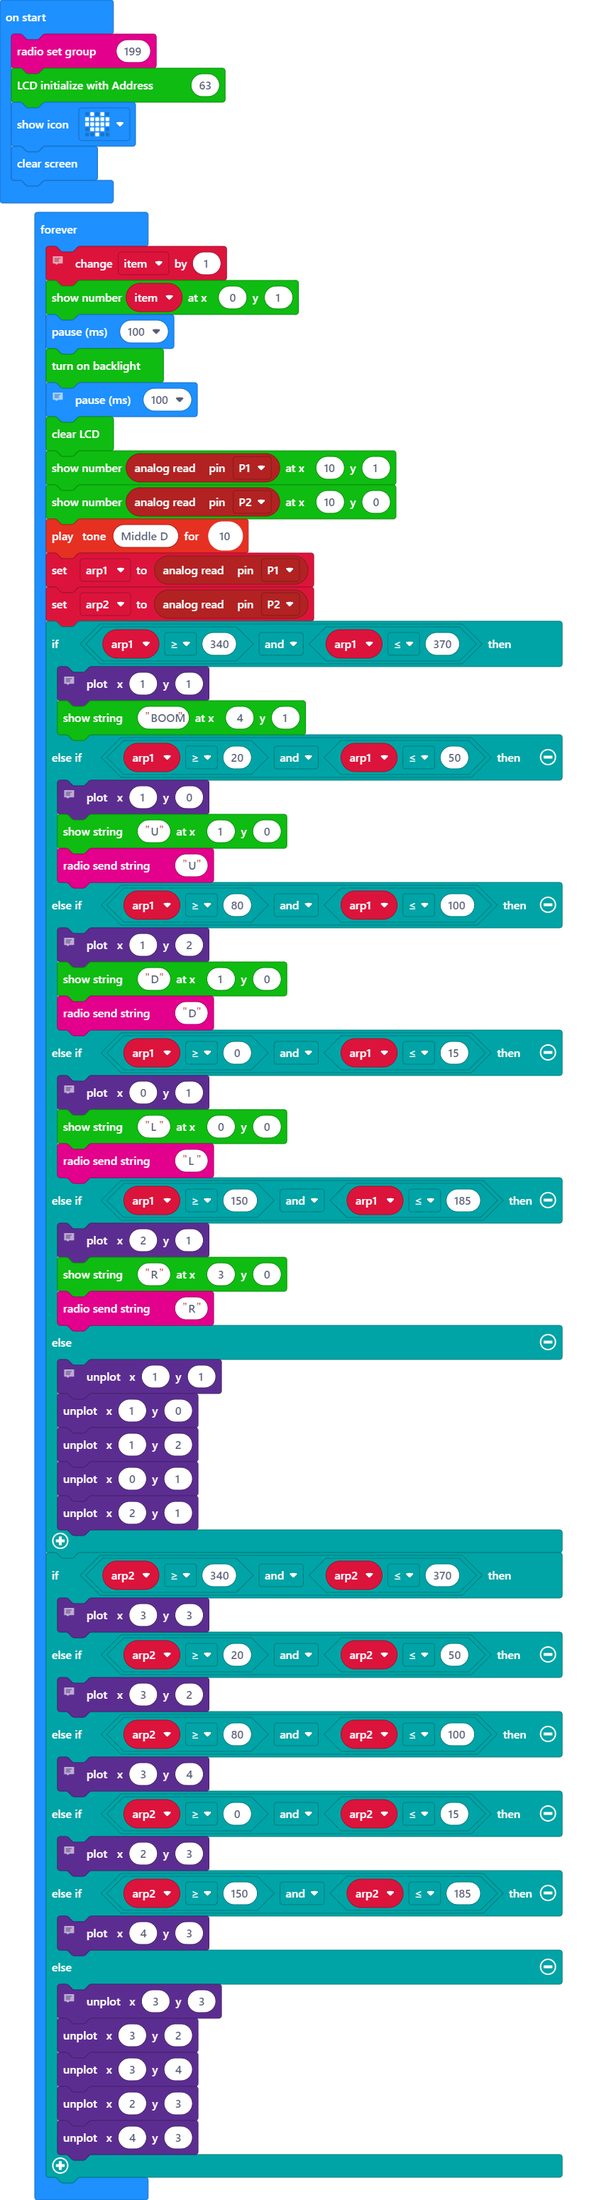
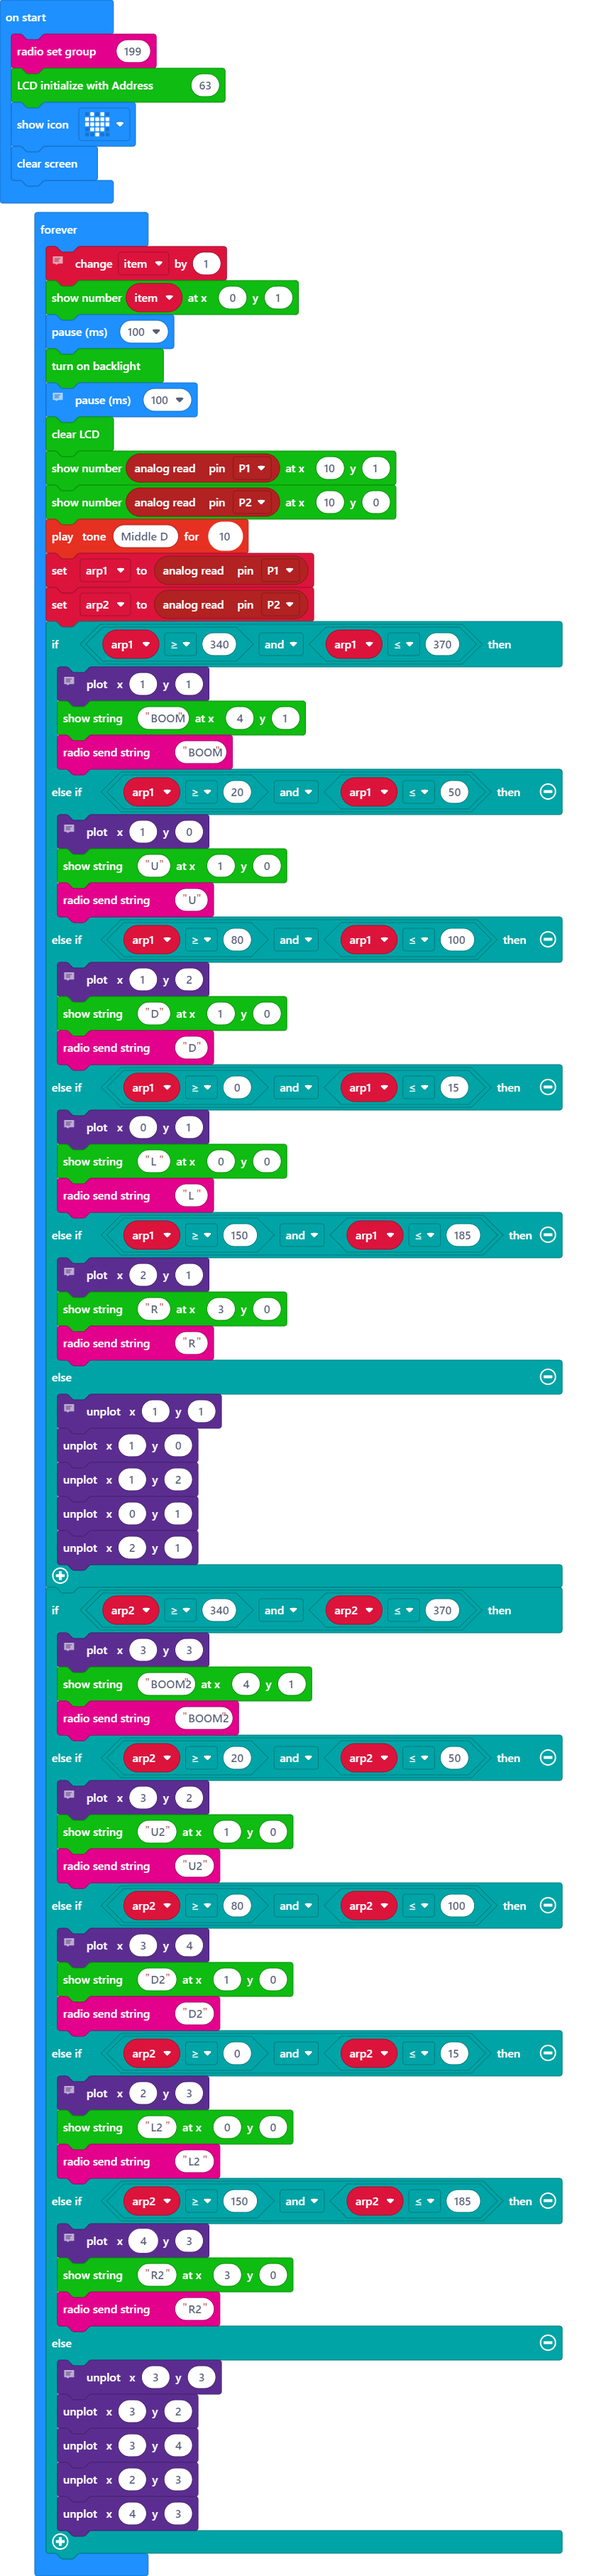
Update main.blocks, main.ts

diff --git a/main.ts b/main.ts
@@ -23,6 +23,7 @@ basic.forever(function () {
         // FIRE
         led.plot(1, 1)
         I2C_LCD1602.ShowString("BOOM", 4, 1)
+        radio.sendString("BOOM")
     } else if (arp1 >= 20 && arp1 <= 50) {
         // UP
         led.plot(1, 0)
@@ -54,18 +55,28 @@ basic.forever(function () {
     if (arp2 >= 340 && arp2 <= 370) {
         // FIRE
         led.plot(3, 3)
+        I2C_LCD1602.ShowString("BOOM2", 4, 1)
+        radio.sendString("BOOM2")
     } else if (arp2 >= 20 && arp2 <= 50) {
         // UP
         led.plot(3, 2)
+        I2C_LCD1602.ShowString("U2", 1, 0)
+        radio.sendString("U2")
     } else if (arp2 >= 80 && arp2 <= 100) {
         // DOWN
         led.plot(3, 4)
+        I2C_LCD1602.ShowString("D2", 1, 0)
+        radio.sendString("D2")
     } else if (arp2 >= 0 && arp2 <= 15) {
         // LEFT
         led.plot(2, 3)
+        I2C_LCD1602.ShowString("L2", 0, 0)
+        radio.sendString("L2")
     } else if (arp2 >= 150 && arp2 <= 185) {
         // RIGHT
         led.plot(4, 3)
+        I2C_LCD1602.ShowString("R2", 3, 0)
+        radio.sendString("R2")
     } else {
         // EMPTY
         led.unplot(3, 3)
